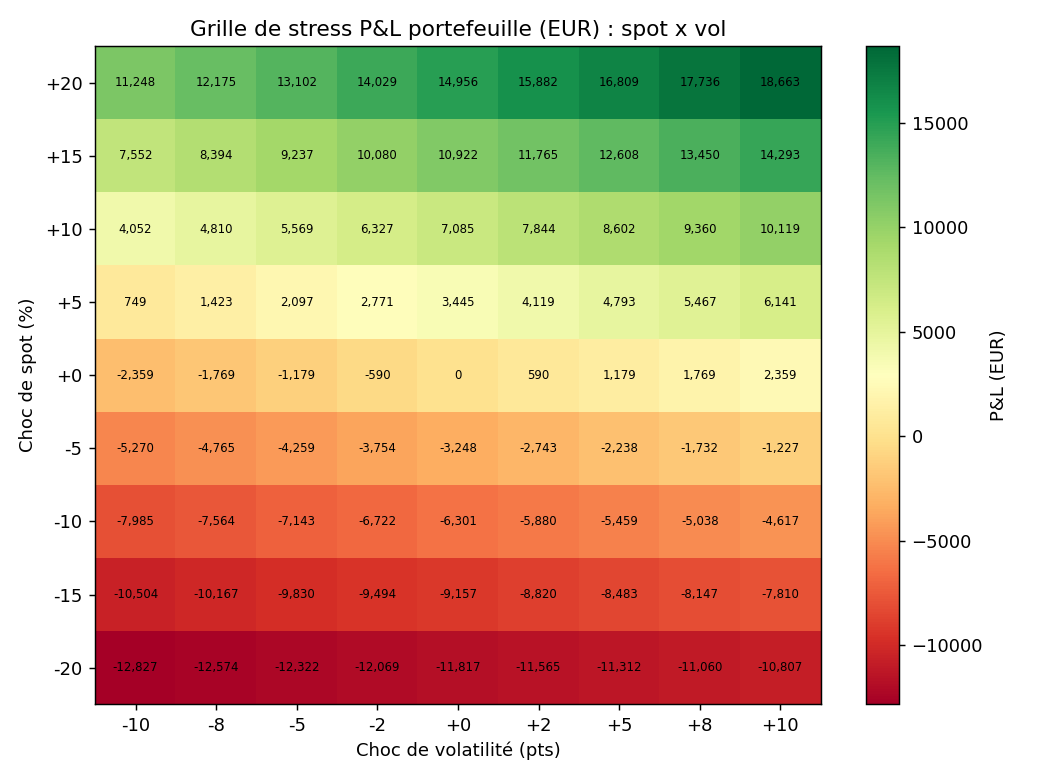
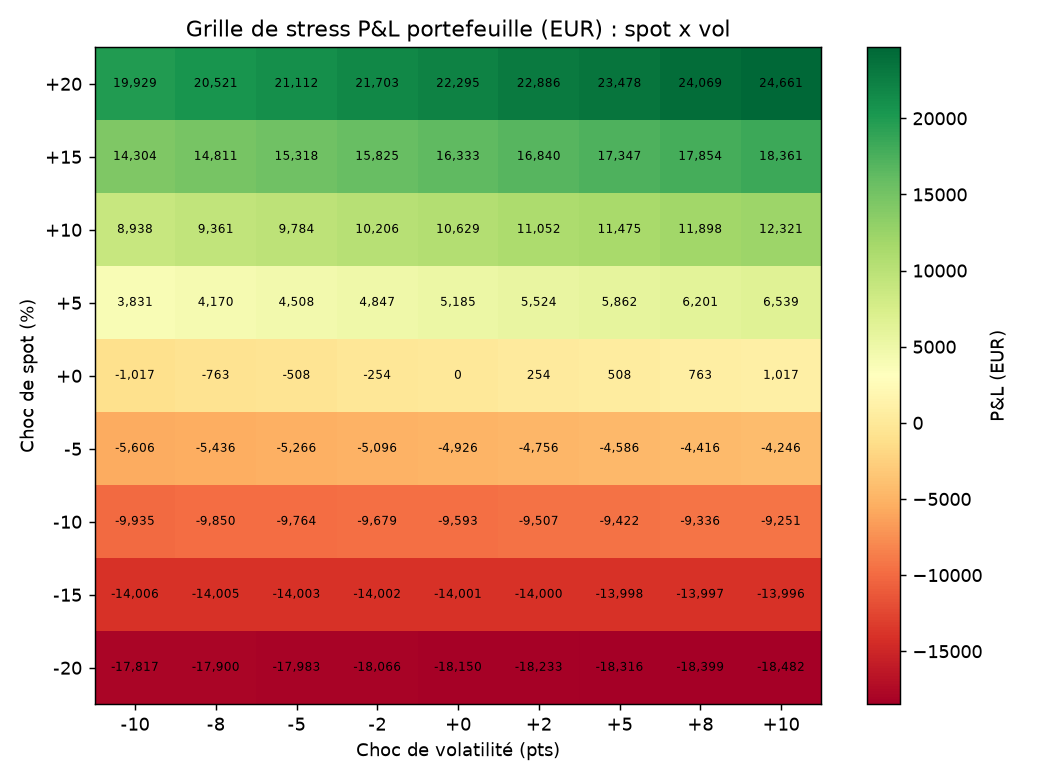
Fix bump Greeks for structured products

diff --git a/examples/04_portfolio_greeks.py b/examples/04_portfolio_greeks.py
@@ -51,17 +51,20 @@ pos_put = Position(
 note_spec = CapitalProtectedNoteSpec(
     notional=1000.0, protection_level=1.00, participation_rate=0.80, strike_level=1.00, cap_level=1.30,
 )
-note_price = price_capital_protected_note_decomposition(SPOT, VOL, RATE, DIVIDEND, MATURITY, note_spec)
+def _price_note(spot: float, vol: float) -> float:
+    # Strikes fixés au spot initial : seul le spot bouge dans le bump.
+    return price_capital_protected_note_decomposition(spot, vol, RATE, DIVIDEND, MATURITY, note_spec,
+                                                      spot_ref=SPOT)
+
+
+note_price = _price_note(SPOT, VOL)
 h = 0.01 * SPOT
-note_price_up = price_capital_protected_note_decomposition(SPOT + h, VOL, RATE, DIVIDEND, MATURITY, note_spec)
-note_price_dn = price_capital_protected_note_decomposition(SPOT - h, VOL, RATE, DIVIDEND, MATURITY, note_spec)
+note_price_up = _price_note(SPOT + h, VOL)
+note_price_dn = _price_note(SPOT - h, VOL)
 note_delta_unit = (note_price_up - note_price_dn) / (2.0 * h)
 note_gamma_unit = (note_price_up - 2.0 * note_price + note_price_dn) / (h ** 2)
 h_vol = 0.01
-note_vega_unit = (
-    price_capital_protected_note_decomposition(SPOT, VOL + h_vol, RATE, DIVIDEND, MATURITY, note_spec)
-    - price_capital_protected_note_decomposition(SPOT, VOL - h_vol, RATE, DIVIDEND, MATURITY, note_spec)
-) / (2.0 * h_vol)
+note_vega_unit = (_price_note(SPOT, VOL + h_vol) - _price_note(SPOT, VOL - h_vol)) / (2.0 * h_vol)
 pos_note = Position(
     name="Note capital protégé 80% cap 130%", underlying="ACTION_X", quantity=50.0, multiplier=1.0,
     spot=SPOT, greeks={"delta": note_delta_unit, "gamma": note_gamma_unit, "vega": note_vega_unit},
@@ -73,10 +76,11 @@ n_paths_bonus = 100_000
 n_steps_bonus = 52
 
 
-def _price_bonus_cap(spot: float) -> float:
-    paths = simulate_gbm_paths(np.array([spot]), RATE, np.array([DIVIDEND]), np.array([VOL]),
+def _price_bonus_cap(spot: float, vol: float = VOL) -> float:
+    # Performance mesurée par rapport au spot initial (SPOT), pas au spot bumpé.
+    paths = simulate_gbm_paths(np.array([spot]), RATE, np.array([DIVIDEND]), np.array([vol]),
                                 np.array([[1.0]]), MATURITY, n_steps_bonus, n_paths_bonus, SEED, True)
-    performance = paths[:, :, 0] / spot
+    performance = paths[:, :, 0] / SPOT
     payoff = bonus_cap_payoff(performance, bonus_spec)
     return float(np.mean(payoff * np.exp(-RATE * MATURITY)))
 
@@ -86,9 +90,10 @@ bonus_price_up = _price_bonus_cap(SPOT + h)
 bonus_price_dn = _price_bonus_cap(SPOT - h)
 bonus_delta_unit = (bonus_price_up - bonus_price_dn) / (2.0 * h)
 bonus_gamma_unit = (bonus_price_up - 2.0 * bonus_price + bonus_price_dn) / (h ** 2)
+bonus_vega_unit = (_price_bonus_cap(SPOT, VOL + h_vol) - _price_bonus_cap(SPOT, VOL - h_vol)) / (2.0 * h_vol)
 pos_bonus = Position(
     name="Bonus cappé 105%/125% barrière 70%", underlying="ACTION_X", quantity=30.0, multiplier=1.0,
-    spot=SPOT, greeks={"delta": bonus_delta_unit, "gamma": bonus_gamma_unit, "vega": 0.0},
+    spot=SPOT, greeks={"delta": bonus_delta_unit, "gamma": bonus_gamma_unit, "vega": bonus_vega_unit},
     price=bonus_price,
 )
 

diff --git a/tests/test_pricing_structured.py b/tests/test_pricing_structured.py
@@ -4,8 +4,12 @@ from __future__ import annotations
 
 import numpy as np
 
-from structrisk.payoffs import PhoenixAutocallSpec
-from structrisk.pricing_structured import price_phoenix_autocall
+from structrisk.blackscholes import bs_price
+from structrisk.payoffs import CapitalProtectedNoteSpec, PhoenixAutocallSpec
+from structrisk.pricing_structured import (
+    price_capital_protected_note_decomposition,
+    price_phoenix_autocall,
+)
 
 SPOT = 100.0
 VOL = 0.25
@@ -41,3 +45,25 @@ def test_autocall_call_probabilities_sum_below_one():
                                      n_paths=100_000, seed=7)
     assert result.call_probability_by_date.sum() + result.prob_never_called <= 1.0 + 1e-9
     assert 0.0 <= result.prob_capital_loss <= 1.0
+
+
+def test_capital_protected_note_delta_nonzero_with_fixed_strike():
+    spec = CapitalProtectedNoteSpec(notional=1000.0, protection_level=1.0, participation_rate=0.8,
+                                    strike_level=1.0, cap_level=1.3)
+    maturity, h = 1.0, 1.0
+
+    def price(s: float) -> float:
+        return price_capital_protected_note_decomposition(s, VOL, RATE, DIVIDEND, maturity, spec,
+                                                           spot_ref=SPOT)
+
+    delta = (price(SPOT + h) - price(SPOT - h)) / (2.0 * h)
+
+    def reference(s: float) -> float:
+        # Reference independante : strikes fixes a 100 et 130, call-spread pondere.
+        spread = (bs_price(s, SPOT, maturity, RATE, DIVIDEND, VOL, "call")
+                  - bs_price(s, 1.3 * SPOT, maturity, RATE, DIVIDEND, VOL, "call"))
+        return 1000.0 * np.exp(-RATE * maturity) + 0.8 * (1000.0 / SPOT) * spread
+
+    expected = (reference(SPOT + h) - reference(SPOT - h)) / (2.0 * h)
+    assert abs(delta) > 1.0
+    assert abs(delta - expected) < 1e-8

diff --git a/src/structrisk/pricing_structured.py b/src/structrisk/pricing_structured.py
@@ -179,15 +179,21 @@ def price_capital_protected_note_mc(spot: float, vol: float, rate: float, divide
 
 
 def price_capital_protected_note_decomposition(spot: float, vol: float, rate: float, dividend: float,
-                                                maturity: float, spec: CapitalProtectedNoteSpec) -> float:
-    """Prix par décomposition en briques (zero-coupon + call-spread) d'une note à capital protégé."""
+                                                maturity: float, spec: CapitalProtectedNoteSpec,
+                                                spot_ref: float | None = None) -> float:
+    """Prix par décomposition en briques (zero-coupon + call-spread) d'une note à capital protégé.
+
+    ``spot_ref`` est le spot initial qui fixe les strikes (par défaut ``spot``). Il doit rester
+    fixe quand on bump le spot pour calculer les Grecques.
+    """
+    ref = spot if spot_ref is None else spot_ref
     zero_coupon = spec.protection_level * spec.notional * np.exp(-rate * maturity)
-    strike_low = spec.strike_level * spot
-    strike_high = spec.cap_level * spot
+    strike_low = spec.strike_level * ref
+    strike_high = spec.cap_level * ref
     call_low = bs_price(spot, strike_low, maturity, rate, dividend, vol, "call")
     call_high = bs_price(spot, strike_high, maturity, rate, dividend, vol, "call")
     call_spread_value = call_low - call_high
-    option_leg = spec.participation_rate * (spec.notional / spot) * call_spread_value
+    option_leg = spec.participation_rate * (spec.notional / ref) * call_spread_value
     return float(zero_coupon + option_leg)
 
 

diff --git a/README.md b/README.md
@@ -9,7 +9,7 @@ A short note with the method and results: [note/structured-products-greeks.pdf](
 
 ![Python 3.11](https://img.shields.io/badge/python-3.11-blue)
 ![License MIT](https://img.shields.io/badge/license-MIT-green)
-![tests: 14 passed](https://img.shields.io/badge/tests-14%20passed-brightgreen)
+![tests: 15 passed](https://img.shields.io/badge/tests-15%20passed-brightgreen)
 
 ## What it covers
 
@@ -58,8 +58,10 @@ reaching maturity 34.4%, and of a capital loss in that case 22.7%.
 ![Autocall](docs/img/03_autocall_pricing.png)
 
 **Portfolio** (long call, short put, protected note, bonus certificate):
-delta-equivalent exposure 66,931 EUR, vega P&L +236 EUR per vol point. The
-spot x vol stress grid goes from -12,827 EUR to +18,663 EUR.
+delta-equivalent exposure 101,111 EUR, vega P&L +102 EUR per vol point. The
+spot x vol stress grid goes from -18,482 EUR to +24,661 EUR. The structured
+products are bumped with strike, barrier and reference spot held at their
+contract values, so they carry their own delta, gamma and vega.
 
 **Delta hedging:** the replication error falls from 5.40 (one rehedge) to
 0.39 (daily rehedging), in line with 1/sqrt(n). With 10 bp costs, the average
